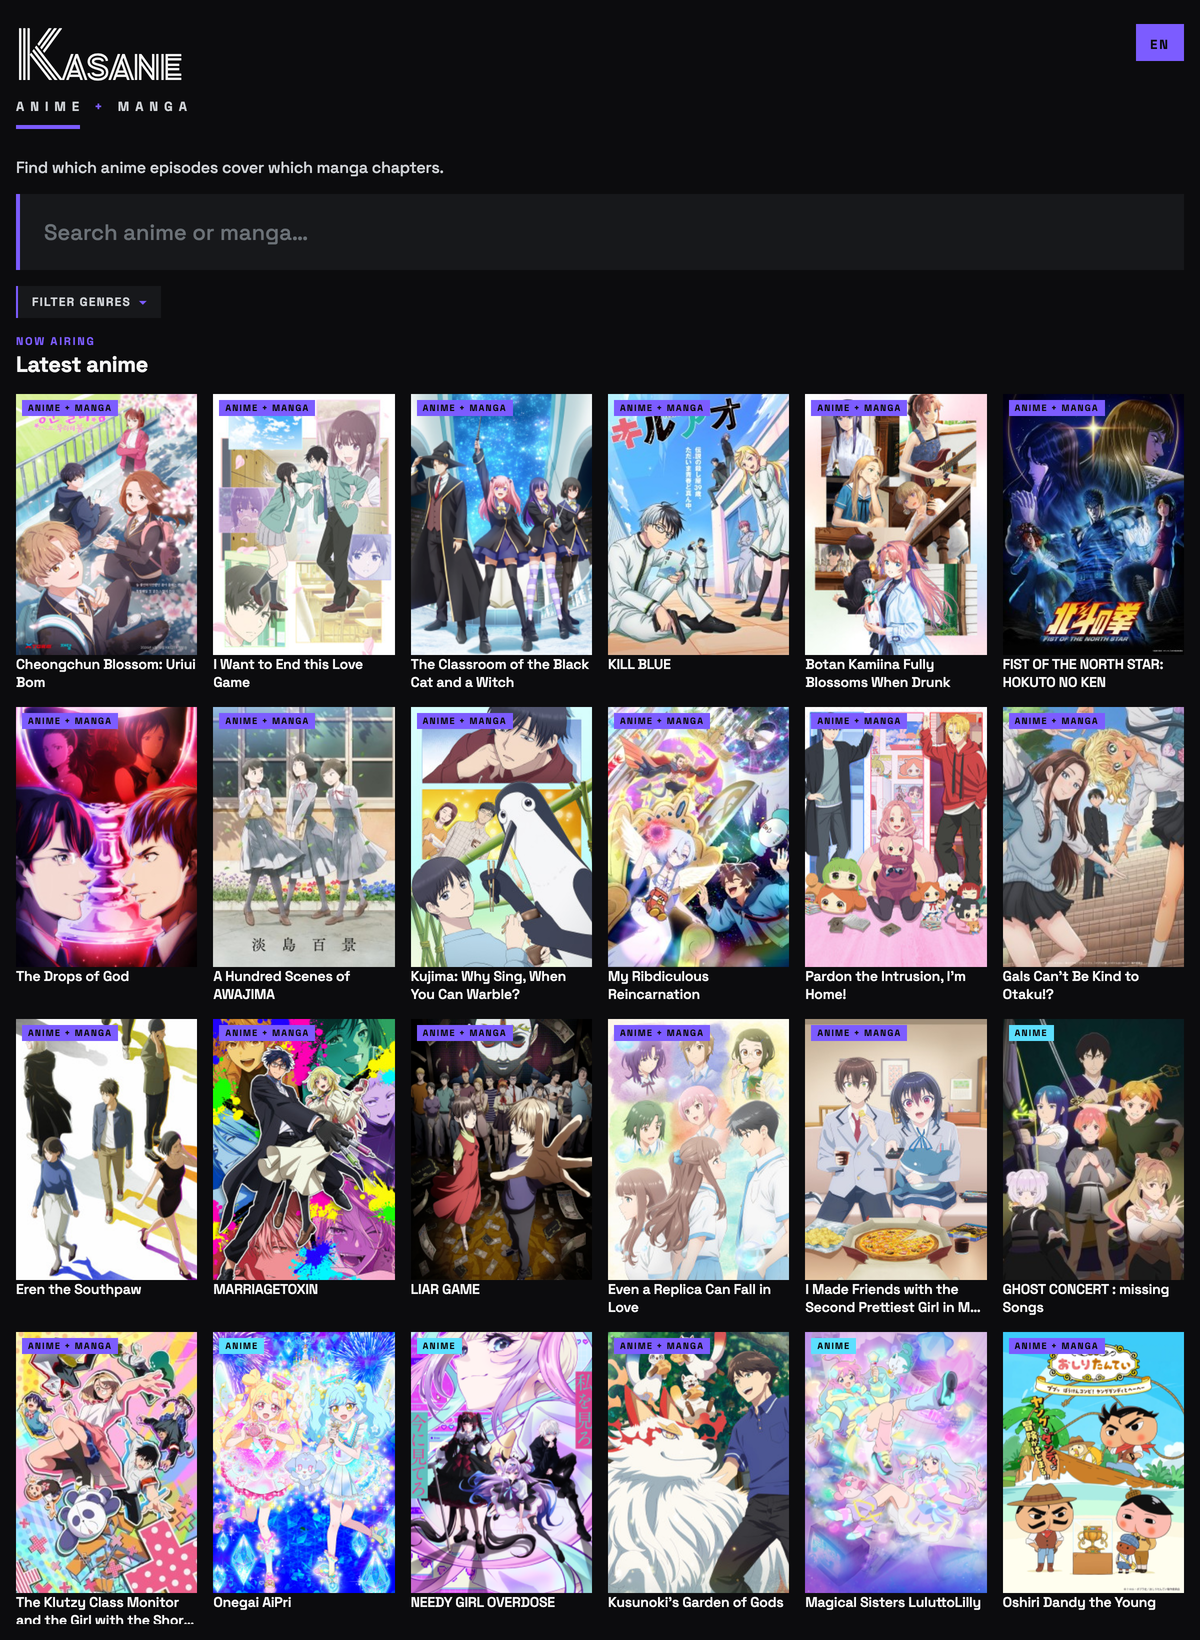
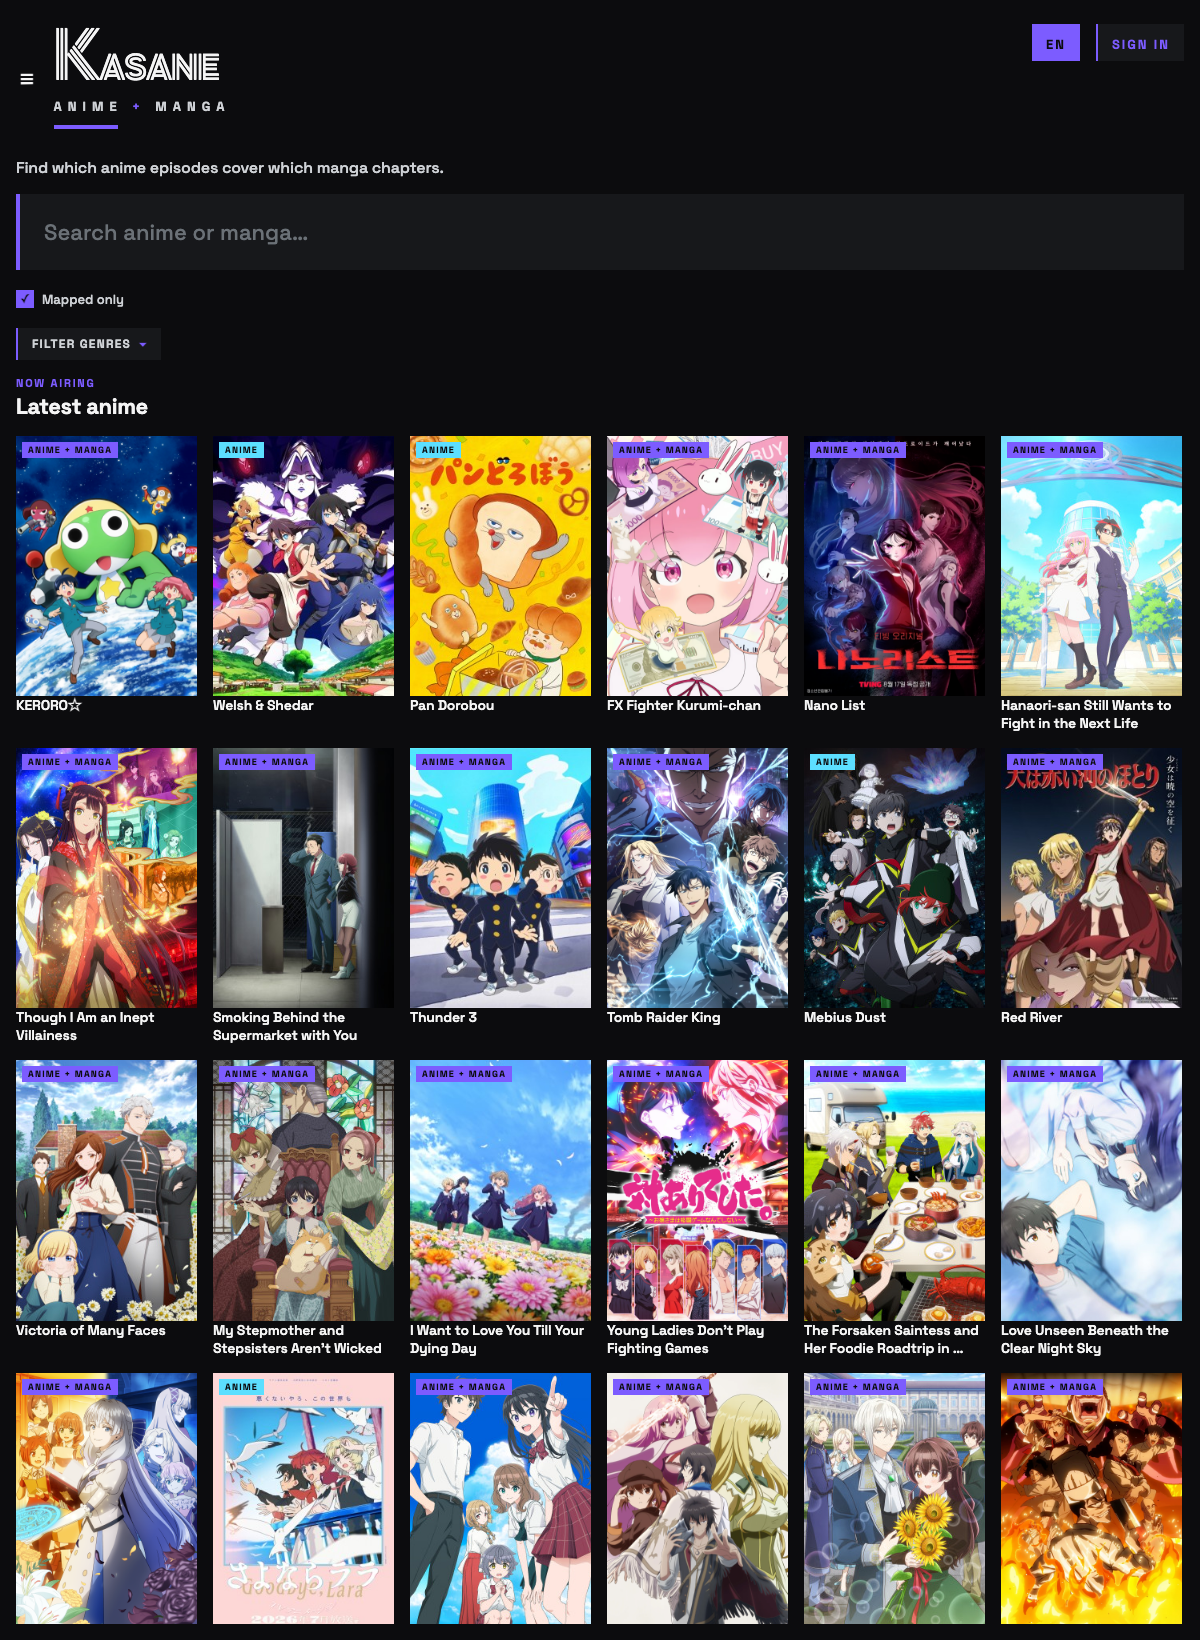
KSN: refresh the README and screenshots
- point the live link at `kasane-guide.netlify.app`; the shorter domain is another site
- reshoot every screenshot from the current build at v1.3.1
- replace the retired anime-screen shot with a phone shot of the coverage pie
- add the all-mapped catalog screen
- document `src/queries/`, the current routes, and what `system-check` runs

diff --git a/README.md b/README.md
@@ -4,7 +4,7 @@
 
 Find which **anime episodes** cover which **manga chapters**, and vice versa — one app, every platform.
 
-**Live on the web:** <https://kasane.netlify.app>
+**Live on the web:** <https://kasane-guide.netlify.app>
 
 Three use cases:
 
@@ -18,17 +18,24 @@ Browse and search the catalog:
 
 ![Home — Latest Anime grid](docs/screenshots/01-home.png)
 
-Series detail — arc-level rail mapping anime episodes to manga chapters, with MangaDex volume covers below:
+Series detail — the arc-level rail maps anime episodes to manga chapters, _Quick
+lookup_ answers "I finished episode X → which chapters?", and MangaDex volume
+covers sit below. Tap a bar to mark your progress:
 
-![Series detail with episode↔chapter rail and volumes](docs/screenshots/02-series.png)
-
-Anime-side view with the _Quick lookup_ form ("I finished episode X → you're on chapter Y"):
-
-![Anime page with rail + quick lookup](docs/screenshots/04-anime.png)
+![Series detail with the episode↔chapter rail, quick lookup and volumes](docs/screenshots/02-series.png)
 
 Drill into a single arc to see per-episode ↔ per-chapter alignment:
 
 ![Romance Dawn arc — episodes 1–3, chapters 1–7](docs/screenshots/03-arc.png)
+
+On a phone the map opens as a coverage pie, showing how much of the manga the
+anime has reached:
+
+<img src="docs/screenshots/04-phone.png" alt="Series detail on a phone, with the arc coverage pie" width="320">
+
+Every mapped series, sortable by title, episodes or chapters:
+
+![All mapped series catalog](docs/screenshots/05-mapped.png)
 
 ## Platforms (one codebase)
 
@@ -62,7 +69,8 @@ bun run ios         # iOS simulator (Mac + Xcode required)
 bun run android     # Android emulator
 bun run typecheck
 bun run test
-bun run system-check  # typecheck + prettier + lint + test + web build
+bun run system-check  # typecheck + format + lint + actionlint + spellcheck + test + web build
+bun run e2e           # Playwright against dist/ (run `bun run build:web` first)
 ```
 
 The web app deploys to Netlify from `netlify.toml` (which also configures the
@@ -120,19 +128,23 @@ for manga-only arcs.
 ## Project layout
 
 ```
-app/                    # Expo Router routes
-  _layout.tsx
+app/                    # Expo Router routes, one screen per file
+  _layout.tsx           # providers, query persistence, header, side menu
   index.tsx             # home: browse + search
+  mapped.tsx            # every mapped series
+  my-shows.tsx          # series you have marked progress on
   login.tsx             # sign in / sign up
   series/[id]/          # series detail for either side's id (+ arc/ drill-down)
   anime/[id]/           # redirects old links to series/[id]
   manga/[id]/           # redirects old links to series/[id]
 src/
-  api/                  # AniList GraphQL, MangaDex, Supabase clients
-  components/           # SeriesCard, EpisodeChapterRail, VolumesGrid, ...
-  data/                 # catalog fetch, search aliases, genre filters
+  api/                  # network clients: AniList, MangaDex, Supabase, catalog fetch
+  queries/              # every useQuery hook, with its key and staleTime
+  data/                 # pure logic: arc lookups, arc layout, pairing, formatting
   state/                # zustand stores: auth, progress, preferences, sync
+  components/           # shared UI: MappingSection, EpisodeChapterRail, VolumesGrid, ...
   types/                # shared TS types + generated Supabase types
+  theme.ts              # colours, spacing, type presets, breakpoint
 supabase/migrations/    # database schema
 scripts/                # catalog audit and coverage-gap reports
 docs/superpowers/       # design specs and plans
@@ -163,7 +175,7 @@ investigation; skills load domain-specific guidance before a matching change.
 | `commit-messages`       | The project's commit and PR title style (`KSN:` prefix, bullet bodies).                                   | Before any `git commit`, amend, rebase, cherry-pick, or `gh pr create`.                      |
 | `cross-platform-parity` | Keeps behaviour consistent across iOS, Android, web, and the Tauri desktop build.                         | Changes touching networking, storage, navigation, fonts, safe areas, or window chrome.       |
 | `design-tokens`         | Enforces `src/theme.ts` as the single source of colour, spacing, and type.                                | Writing or editing any `StyleSheet`, picking a colour, or cleaning up styles.                |
-| `domain-tests`          | Test strategy for the pure logic that decides which episode maps to which chapter.                        | Adding or changing logic in `src/data/`, `src/state/`, or `src/api/`.                        |
+| `domain-tests`          | Test strategy for the pure logic that decides which episode maps to which chapter.                        | Adding or changing logic in `src/data/`, `src/state/`, `src/queries/`, or `src/api/`.        |
 | `e2e`                   | Playwright suite that drives the real `dist/` export, including the SPA fallback and MangaDex proxy.      | Browser-level tests, or changes to routing, deep links, or the Netlify config.               |
 | `mapping-audit`         | Checks the catalog for bad arc mappings — the only gate between a typo and production.                    | After editing Supabase data, before a release, or on a "check the mappings" request.         |
 | `mapping-correction`    | Extends, renumbers, and corrects catalog rows users are already reading.                                  | A new season aired, the manga moved past the last arc, or `mapping-audit` reported an error. |
